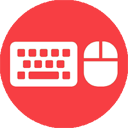
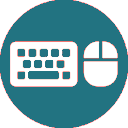
Add files via upload

diff --git a/Keyboard-for-Xbox-Cloud-Gaming-donagh/js/injected.js b/Keyboard-for-Xbox-Cloud-Gaming-donagh/js/injected.js
@@ -348,32 +348,32 @@ function OnboardingIntro({ onDismiss }) {
     const pinScreenshot = (0, pageInjectUtils_1.getInjectedImagePath)('pin-screenshot.png');
     return (react_1.default.createElement(react_responsive_modal_1.Modal, { center: true, open: true, onClose: onDismiss, showCloseIcon: false, focusTrapped: true, closeOnEsc: false, closeOnOverlayClick: false },
         react_1.default.createElement("div", { className: "explanation-modal-xmnk" },
-           react_1.default.createElement("h1", null, "Welcome to Clodu Gaming Keyboard and Mouse for Xbox created by Fvitu!"),
-             react_1.default.createElement("p", null,
-                 react_1.default.createElement("strong", null, "Use the extension's popup to configure your key shortcuts.")),
-             react_1.default.createElement("p", null,
-                 "To access the extension popup, simply click on the ",
-                 react_1.default.createElement("img", { src: icon16 }),
-                 " icon at the top right of your browser. If you don't see the ",
-                 react_1.default.createElement("img", { src: icon16 }),
-                 " icon in your extension toolbar, use the following steps to pin it:"),
-             react_1.default.createElement("ol", null,
-                 react_1.default.createElement("li", null, "Click the extensions puzzle icon at the top right of the browser toolbar"),
-                 react_1.default.createElement("li", null, "Click the pin icon next to the red Xcloud mouse icon")),
-             react_1.default.createElement("p", null,
-                 react_1.default.createElement("strong", null, "Other important notes:")),
-             react_1.default.createElement("ul", null,
-                 react_1.default.createElement("li", null, "You may see a warning when launching a game in XCloud that a controller has not been found to play; just click \"Continue anyway\""),
-                 react_1.default.createElement("li", null,
-                     "Mouse control can be enabled by clicking the overlay that appears after launching a game, and can be exited by pressing the " key,
-                     react_1.default.createElement("kbd", null, "Esc"),
-                     ""),
-                 react_1.default.createElement("li", null,
-                     "Mouse sensitivity can be changed in the extension popup, however, for best results.",
-                     ' ',
+            react_1.default.createElement("h1", null, "Welcome to Keyboard and Mouse for Xbox Cloud Gaming created by donagh!"),
+            react_1.default.createElement("p", null,
+                react_1.default.createElement("strong", null, "Use the extension's popup to configure your key shortcuts.")),
+            react_1.default.createElement("p", null,
+                "To access the extension popup, simply click on the",
+                react_1.default.createElement("img", { src: icon16 }),
+                " icon at the top right of your browser. If you don't see the ",
+                react_1.default.createElement("img", { src: icon16 }),
+                " icon on your extension toolbar, use the following steps to attach it:"),
+            react_1.default.createElement("ol", null,
+                react_1.default.createElement("li", null, "Click the extensions puzzle icon at the top right of the browser Tools bar"),
+                react_1.default.createElement("li", null, "Click the pin icon next to the red Xcloud mouse icon")),
+            react_1.default.createElement("p", null,
+                react_1.default.createElement("strong", null, "Other important notes:")),
+            react_1.default.createElement("ul", null,
+                react_1.default.createElement("li", null, "You may see a warning when launching a game in XCloud that a controller has not been found to play; just click on \"Continue anyway\""),
+                react_1.default.createElement("li", null,
+                    "Mouse control can be enabled by clicking the overlay that appears after launching a game, and can be exited by pressing the Key",
+                    react_1.default.createElement("kbd", null, "Esc"),
+                    ""),
+                react_1.default.createElement("li", null,
+                    "Mouse sensitivity can be changed in the extension popup, however, for best results.",
+                    ' ',
                     react_1.default.createElement("u", null, "It's also important to adjust the controller's stick sensitivity and dead zone options within each game's settings as well."))),
             react_1.default.createElement("div", { style: { textAlign: 'center' } },
-                react_1.default.createElement("button", { className: "agree", disabled: !canDismiss, onClick: onDismiss }, "Entendido")))));
+                react_1.default.createElement("button", { className: "agree", disabled: !canDismiss, onClick: onDismiss }, "agree")))));
 }
 exports["default"] = OnboardingIntro;
 
@@ -922,7 +922,7 @@ function checkIfInGame() {
 // Disable the fake gamepad and let them use their real gamepad
 function disableVirtualGamepad() {
     if ((0, gamepadSimulator_1.isEnabled)()) {
-        (0, snackbar_1.showToast)('Mouse/keyboard desactivado');
+        (0, snackbar_1.showToast)('Mouse/keyboard deactive');
     }
     (0, browserEventProcessor_1.disableConfig)();
     state_1.store.dispatch(state_1.actions.updatePreset({ presetName: null, preset: null }));
@@ -933,7 +933,7 @@ function updateActiveGamepadConfig(name, config) {
         disableVirtualGamepad();
         return;
     }
-    (0, snackbar_1.showToast)(`'${name}' preset active`);
+    (0, snackbar_1.showToast)(`'${name}' active preset`);
     (0, browserEventProcessor_1.enableConfig)(config);
     state_1.store.dispatch(state_1.actions.updatePreset({ presetName: name, preset: config }));
 }

diff --git a/Keyboard-for-Xbox-Cloud-Gaming-donagh/js/popup.js b/Keyboard-for-Xbox-Cloud-Gaming-donagh/js/popup.js
@@ -142,12 +142,12 @@ function GamepadConfigEditor({ name, onSubmitChanges, onCancelCreate, onActivate
     }, [name, onActivate]);
     const handleToggleEditing = (0, react_2.useCallback)(() => {
         if (isNewDraft && isEditing) {
-            if ((0, confirmUtil_1.confirm)('¿Estás seguro de que quieres cancelar la creación de un nuevo preajuste?')) {
+            if ((0, confirmUtil_1.confirm)('Are you sure you want to cancel creating a new preset?')) {
                 onCancelCreate();
             }
             return;
         }
-        if (isEditing && (!hasChanges || (0, confirmUtil_1.confirm)('¿Estas seguro que quieres cancelar?Perderás cualquier cambio.'))) {
+        if (isEditing && (!hasChanges || (0, confirmUtil_1.confirm)('Are you sure you want to cancel? You will lose any changes.'))) {
             // Reset
             dispatchState({ type: 'reset', config: storedGamepadConfig });
             setIsEditing(!isEditing);
@@ -157,7 +157,7 @@ function GamepadConfigEditor({ name, onSubmitChanges, onCancelCreate, onActivate
         }
     }, [dispatchState, hasChanges, isEditing, isNewDraft, onCancelCreate, storedGamepadConfig]);
     const handleDelete = (0, react_2.useCallback)(() => {
-        if ((0, confirmUtil_1.confirm)('¿Estás seguro de que quieres eliminar este preajuste?')) {
+        if ((0, confirmUtil_1.confirm)('Are you sure you want to delete this preset?')) {
             onDelete(name);
         }
     }, [name, onDelete]);
@@ -183,7 +183,7 @@ function GamepadConfigEditor({ name, onSubmitChanges, onCancelCreate, onActivate
         react_2.default.createElement("section", { className: "horizontal space-between padding-top-s" },
             react_2.default.createElement("div", { className: "margin-right-s" },
                 react_2.default.createElement(react_1.DefaultButton, { onClick: handleToggleEditing }, isEditing ? 'Cancel' : 'edit'),
-                !isEditing ? (react_2.default.createElement(react_1.DefaultButton, { className: "margin-left-s", disabled: isDefaultConfig, onClick: handleDelete, title: isDefaultConfig ? 'Default preset cannot be deleted' : undefined }, "Eliminate")) : null,
+                !isEditing ? (react_2.default.createElement(react_1.DefaultButton, { className: "margin-left-s", disabled: isDefaultConfig, onClick: handleDelete, title: isDefaultConfig ? 'Default preset cannot be deleted' : undefined }, "Delete")) : null,
                 !isEditing ? (react_2.default.createElement(react_1.DefaultButton, { className: "margin-left-s", onClick: handleExport }, "Export")) : null),
             isEditing ? (react_2.default.createElement(react_1.PrimaryButton, { type: "submit", disabled: state.errors.hasErrors || !hasChanges || isSubmitting, iconProps: saveIcon }, isNewDraft ? 'Create' : 'keep')) : (react_2.default.createElement(react_1.PrimaryButton, { onClick: handleActivate, disabled: state.errors.hasErrors || isActive || isSubmitting, iconProps: useIcon }, "use")))));
 }
@@ -710,10 +710,10 @@ function NewConfigButton({ disabled, isPaid, allConfigs, onCreate, onImport, onO
             onImport(name, config);
             if (isMounted())
                 setName('');
-            alert('Archivo preset importado correctamente');
+            alert('Preset file imported successfully');
         })
             .catch((errorMsg) => {
-            console.error('Importación fallida', errorMsg);
+            console.error('Import failed', errorMsg);
             alert(errorMsg);
         });
     }, [isMounted, name, onImport]);
@@ -726,7 +726,7 @@ function NewConfigButton({ disabled, isPaid, allConfigs, onCreate, onImport, onO
         }
     }, [handleSubmit]);
     return (react_1.default.createElement(react_1.default.Fragment, null,
-        react_1.default.createElement(react_2.IconButton, { id: buttonId, className: "new-preset-btn", elementRef: triggerRef, onClick: handleNewBtnClick, title: "Agregar nuevo preajuste", ariaLabel: "Agregar nuevo preajuste", disabled: disabled },
+        react_1.default.createElement(react_2.IconButton, { id: buttonId, className: "new-preset-btn", elementRef: triggerRef, onClick: handleNewBtnClick, title: "Add new preset", ariaLabel: "Add new preset", disabled: disabled },
             react_1.default.createElement(icons_1.PlusCircleIcon, null)),
         isOpen ? (react_1.default.createElement(react_2.Callout, { setInitialFocus: true, gapSpace: 0, directionalHint: react_2.DirectionalHint.bottomRightEdge, target: `#${buttonId}`, onDismiss: handleClose, 
             // Needed to fix issue in Safari
@@ -1187,14 +1187,14 @@ exports.xboxColor = '#38a11b';
 // https://fluentuipr.z22.web.core.windows.net/heads/master/theming-designer/index.html
 exports.fluentXboxTheme = (0, react_1.createTheme)({
     palette: {
-        themePrimary: '#D64045',
+        themePrimary: '#227381',
         themeLighterAlt: '#f3fbf4',
         themeLighter: '#d0edd5',
         themeLight: '#aaddb4',
         themeTertiary: '#65bc75',
         themeSecondary: '#329c46',
-        themeDarkAlt: '#b72e32',
-        themeDark: '#b72e32',
+        themeDarkAlt: '#227381',
+        themeDark: '#227381',
         themeDarker: '#12501e',
         neutralLighterAlt: '#ecebe9',
         neutralLighter: '#e8e7e6',

diff --git a/Keyboard-for-Xbox-Cloud-Gaming-donagh/css/injected.css b/Keyboard-for-Xbox-Cloud-Gaming-donagh/css/injected.css
@@ -9,7 +9,7 @@
   top: 5px;
   right: 0;
   border-radius: 8px 0 0 8px;
-  background-color: rgba(30, 30, 30, 0.7);
+  background-color: #1E1E1E;
   color: #fff;
   fill: #fff;
   max-width: 450px;
@@ -102,7 +102,7 @@
   outline: none;
   cursor: pointer;
   height: 13px;
-  background-color: rgba(255, 255, 255, 0.25);
+  background-color: #FFFFFF;
   border: none;
   min-width: 25px;
   font-size: 13px;
@@ -130,33 +130,33 @@
   overflow-y: auto;
   padding-left: 5px;
   padding-right: 5px;
-  border-top: 1px solid rgba(255, 255, 255, 0.25);
-  border-bottom: 1px solid rgba(255, 255, 255, 0.25);
+  border-top: 1px solid rgba(#FFFFFF);
+  border-bottom: 1px solid rgba(#FFFFFF);
 }
 
 #toolbar-xmnk .keybindings-xmnk table {
   width: 100%;
-  color: rgba(255, 255, 255, 0.5);
+  color: #FFFFFF;
   border: none;
   border-collapse: collapse;
 }
 
 #toolbar-xmnk .keybindings-xmnk table td {
-  border-left: 1px solid rgba(255, 255, 255, 0.1);
+  border-left: 1px solid #FFFFFF;
   padding-left: 10px;
   padding-top: 3px;
   padding-bottom: 3px;
 }
 
 #toolbar-xmnk .keybindings-xmnk table tr {
-  border-bottom: 1px solid rgba(255, 255, 255, 0.1);
+  border-bottom: 1px solid #FFFFFF;
 }
 
 #toolbar-xmnk .explanation-xmnk {
   text-align: center;
   font-style: italic;
   margin: 15px 5px;
-  color: rgba(255, 255, 255, 0.5);
+  color: #FFFFFF;
   font-size: 0.8em;
 }
 
@@ -183,7 +183,7 @@
   left: 50%;
   top: 50%;
   transform: translate(-50%, -50%);
-  background-color: rgba(30, 30, 30, 0.7);
+  background-color: #000000;
   min-height: 120px;
   border-radius: 8px;
 }
@@ -198,7 +198,7 @@
   right: 10px;
   cursor: pointer;
   color: #aaa;
-  background-color: rgba(30, 30, 30, 0.5);
+  background-color: #000000;
   width: 30px;
   height: 30px;
   border: none;

diff --git a/Keyboard-for-Xbox-Cloud-Gaming-donagh/js/background.js b/Keyboard-for-Xbox-Cloud-Gaming-donagh/js/background.js
@@ -2231,7 +2231,7 @@ chrome.runtime.onInstalled.addListener(({ reason }) => {
         (0, chromeStoredData_1.storeActiveGamepadConfig)(gamepadConfig_1.DEFAULT_CONFIG_NAME);
     }
     if (typeof chrome.runtime.setUninstallURL === 'function') {
-        chrome.runtime.setUninstallURL('http://donagh.byethost7.com');
+        chrome.runtime.setUninstallURL('http://donagh.is-great.net');
     }
 });
 // https://developer.chrome.com/docs/extensions/reference/commands/#handling-command-events

diff --git a/Keyboard-for-Xbox-Cloud-Gaming-donagh/css/shared.css b/Keyboard-for-Xbox-Cloud-Gaming-donagh/css/shared.css
@@ -4,7 +4,7 @@
 }
 
 .explanation-modal-xmnk {
-  color: black;
+  color: blue;
   background-color: white;
   font-family: sans-serif;
   font-size: 16px;
@@ -42,7 +42,7 @@
   padding: 8px 15px;
   font-size: 20px;
   color: #fff;
-  background-color: #D64045;
+  background-color: #227381;
   border: none;
   cursor: pointer;
   border-radius: 10px;

diff --git a/Keyboard-for-Xbox-Cloud-Gaming-donagh/css/popup.css b/Keyboard-for-Xbox-Cloud-Gaming-donagh/css/popup.css
@@ -101,8 +101,8 @@ html, body {
 }
 
 .green-bg {
-  background-color: rgb(214, 64, 69);
-  color: rgb(243, 242, 241);
+  background-color: #227381;
+  color: #F3F2F1;
 }
 
 .logo {
@@ -123,8 +123,8 @@ html, body {
 }
 
 .error, .error a {
-  fill: #cc1111;
-  color: #cc1111;
+  fill: #227381;
+  color: #227381;
 }
 
 .horizontal {
